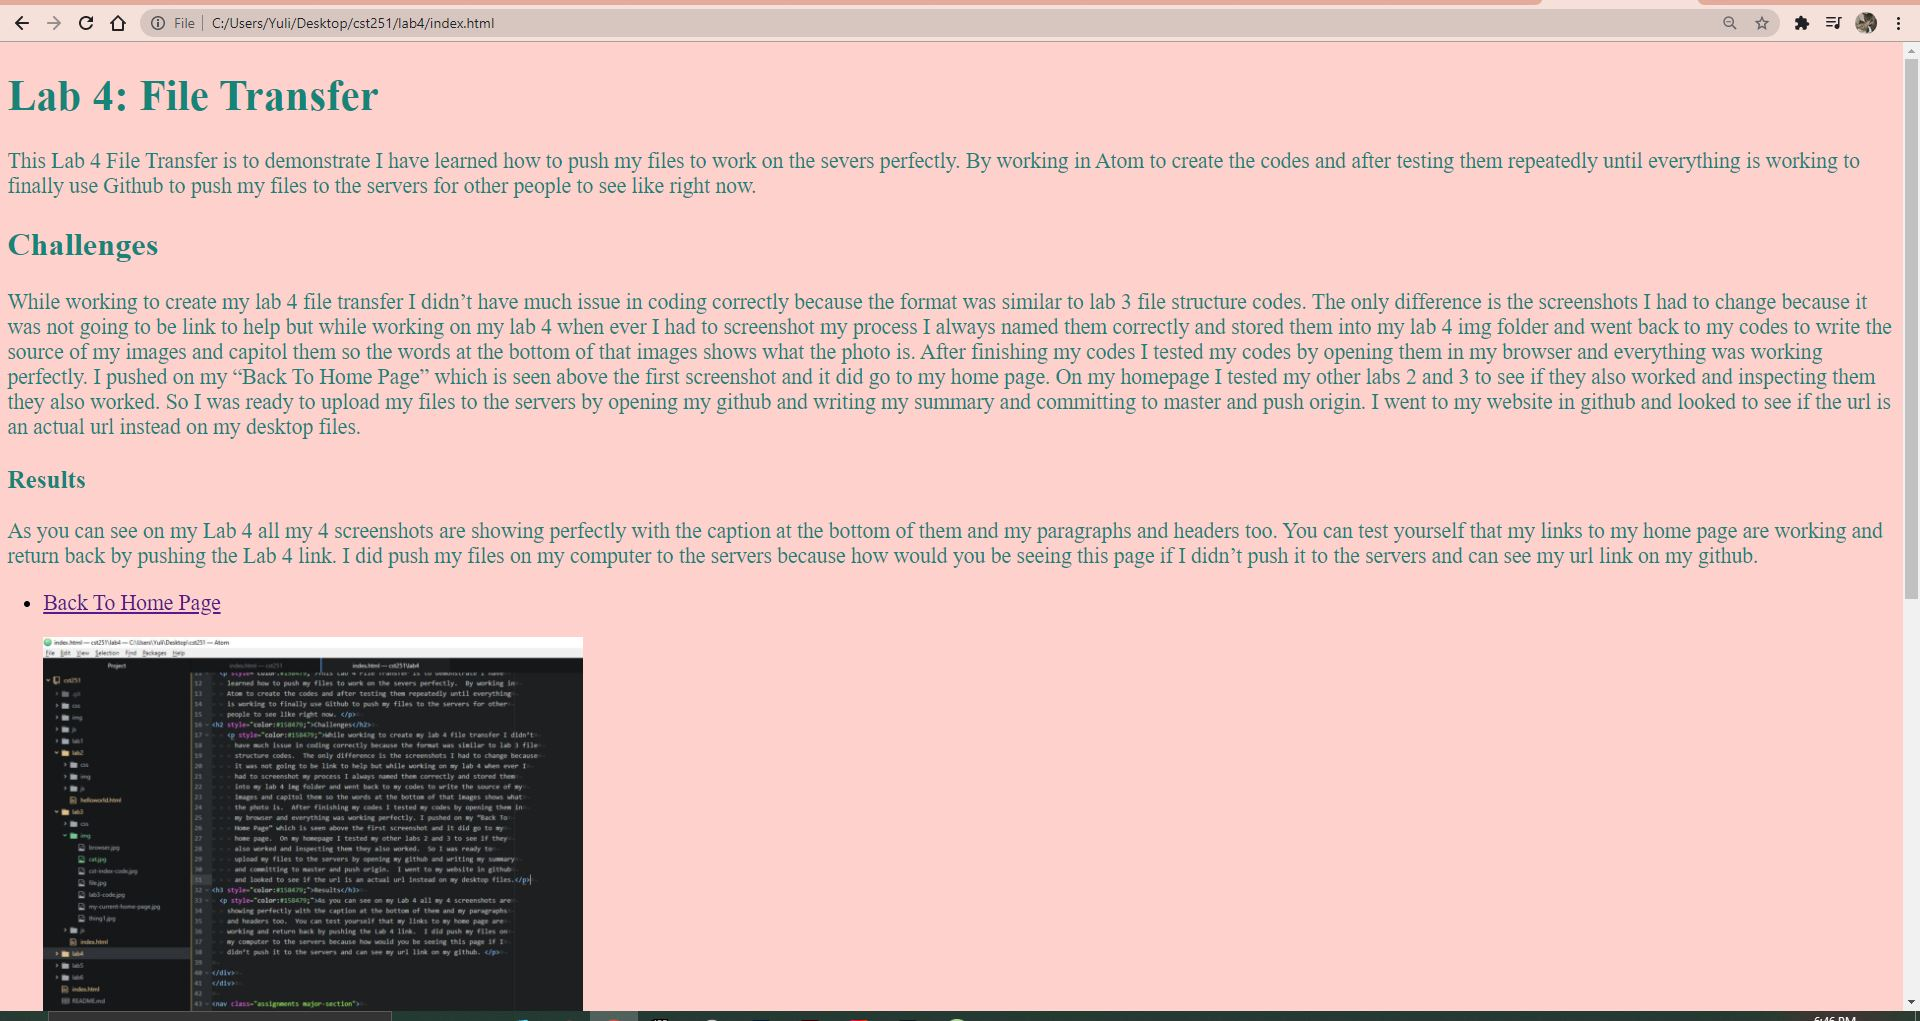
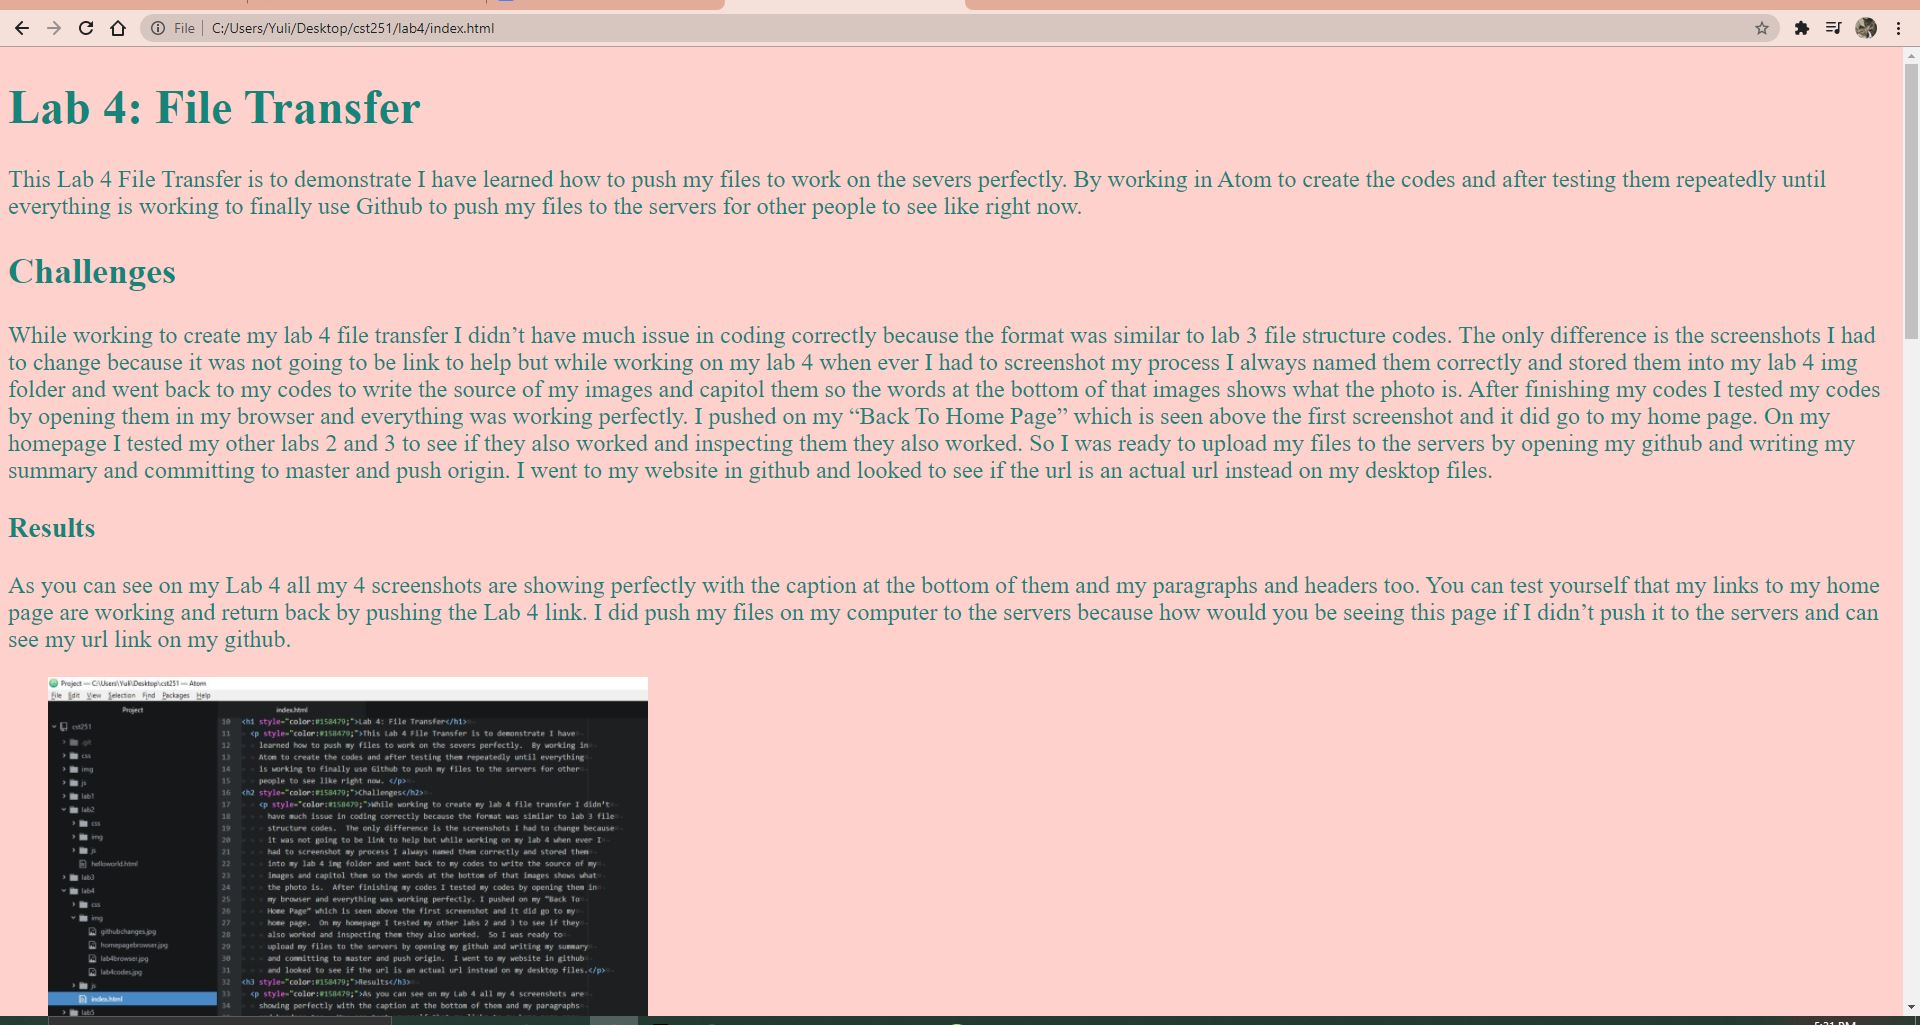
Worked on Lab 5 codes
Worked on lab 5 codes and some minor changes to other lab file codes.

Changed region(s): [[0.0, 0.1518, 1.0, 1.0], [0.0, 0.0, 1.0, 0.1214]]

diff --git a/lab5/index.html b/lab5/index.html
@@ -1,11 +1,133 @@
 <!DOCTYPE html>
 <html>
 <head>
-	<title>Lab X - Subject/Topic</title>
+	<style>
+	<title>Lab 5: More HTML</title>
 	<link rel="stylesheet" type="text/css" href="../css/site.css">
 	<link rel="stylesheet" type="text/css" href="css/lab.css">
+	* {
+	  box-sizing: border-box;
+	}
+
+	.row {
+	  display: flex;
+	}
+	.column {
+	  flex: 33.33%;
+	  padding: 5px;
+	}
+
+	figure {
+  border: 1px #c88937 solid;
+  padding: 4px;
+  margin: auto;
+}
+
+figcaption {
+  background-color: #c88937;
+  color: #c88937;
+  font-style: italic;
+  padding: 2px;
+  text-align: center;
+}
+	</style>
 </head>
-<body>
+<body style="background-color:#fae8d6">
+
+<h1 style="color:#c88937;">Lab 5: More HTML</h1>
+	<p style="color:#c88937;">This Lab 5 More HTML file is to demonstrate more html
+		codes by adding more pictures and organizing them with captions, adding links
+		to some of my favorite websites and shows on Youtube, create an image link
+		to take you to the website, and an link to go back to my homepage.  Finally to upload
+		them to the servers using Github after testing my files are working on my local
+		computer.</p>
+
+<h2 style="color:#c88937;">Challenges</h2>
+		<p style="color:#c88937;">While working on my Lab 5 file I didn’t have much issue writing
+			the codes for the headers,paragraphs, inserting my images, or adding links to
+			my favorite websites.  The only issue I had while working on my lab 5 was
+			trying to organize my images to be side by side since I wanted to put more
+			cat pictures because it was hard to choose only two so I added six.  I went
+			to w3schools for help to see how to put them side by side. I added my picture
+			using row and column to put 3 pictures on the top and the other 3 at the bottom
+			to make the images bigger instead of having all six in one row.  At the top of
+			the I added a style under head and copied and pasted the codes from w3schools
+			and adjusted some of the codes like the color of the box color to match my
+			color palette and to have my captions at the bottom to be aligned in the center.
+			I did a local test and everything was working the 6 cat pictures were showing,
+			the captions were in the center and the box was in the correct color.</p>
+
+<h3 style="color:#c88937;">Results</h3>
+	<p style="color:#c88937;">As you can see in my Lab 5 file you can see my 6 cat
+		pictures are working organized and with captions in the center at the bottom
+		of each picture.  I have all my paragraphs explaining each section and I have
+		working links to my favorite websites I enjoy most using in my free time.  I
+		have my “Back To Home Page” link at the bottom working to take you back to my
+		home page and uploaded to the severs.</p>
+
+<h2 style="color:#c88937;">My Adorable Cat Pictures</h2>
+
+	<div class="row">
+		<div class="column">
+			<figure>
+				<img src="img/kittens.jpg" alt="two kittens" style="width:100%">
+					<figcaption style="color:#fae8d6;">Kittens</figcaption>
+		</div>
+		<div class="column">
+				<img src="img/orange.jpg" alt="Picture of Orange Tabby Cat" style="width:100%">
+					<figcaption style="color:#fae8d6;">Orange Kitten</figcaption>
+		</div>
+		<div class="column">
+				<img src="img/cattree.jpg" alt="Cats on a Cat Tree" style="width:100%">
+					<figcaption style="color:#fae8d6;"> Kittens On Cat Tree</figcaption>
+			</figure>
+		</div>
+	</div>
+
+	<div class="row">
+		<div class="column">
+			<figure>
+					<img src="img/Cats.jpg" alt="Two Cats" style="width:100%">
+						<figcaption style="color:#fae8d6;">Chi & Black Kitten</figcaption>
+		</div>
+		<div class="column">
+					<img src="img/chi.jpg" alt="Chi Sleeping" style="width:100%">
+						<figcaption style="color:#fae8d6;">Chi Sleeping</figcation>
+		</div>
+		<div class="column">
+					<img src="img/kirby.jpg" alt="Kirby Playing" style="width:100%">
+						<figcaption style="color:#fae8d6;">Kirby Playing With String</figcaption>
+			</figure>
+		</div>
+	</div>
+<h4 style="color:#c88937;">Some Of My Favorite Websites & Shows on Youtube</h4>
+<nav>
+	<ol>
+		<figure>
+			<li><a href="https://youtu.be/dop4MTlf_zc?t=1" target="_blank"> <img src="img/64px.png"
+				 style="width:450px"> <br> Bee & Puppycat Season 1 On Youtube</a></li>
+			<li><a href="https://youtu.be/yio2JNgQKBM" target="_blank"> Epithet Erased</a></li>
+			<li><a href="https://www.youtube.com/" target="_blank">Youtube</a></li>
+			<li><a href="https://www.crunchyroll.com/videos/anime">Crunchyroll</a></li>
+			<li><a href="https://www.webtoons.com/en/" target="_Webtoons">Webtoons</a></li>
+			<li><a href="https://www.pinterest.com/" target="_blank">Pinterest</a></li>
+			<li><a href="https://www.twitch.tv/" target-"_blank">Twitch</a></li>
+		</figure>
+	</ol>
+</nav>
+<h5 style="color:#c88937;">My Screenshots Progress</h5>
+	<img src="img/lab5codes.jpg" style="width:700px">
+		<figcaption style="color:#fae8d6;">Lab 5 Codes</figcaption>
+	<img src="img/lab5browser.jpg" style="width:1200px">
+		<figcaption style="color:#fae8d6;">Lab 5 On Local Browser</figcaption>
+	<img src="img/severbrowser.jpg" style="width:100%">
+		<figcaption style="color:#fae8d6;">Lab 5 On Sever Browser</figcaption>
+
+	<nav class="assignments major-section">
+		<ul>
+			<li><a href="../index.html">Back To Home Page</a></li>
+		</ul>
+	</nav>
 
 </body>
 </html>

diff --git a/lab6/index.html b/lab6/index.html
@@ -1,11 +1,40 @@
 <!DOCTYPE html>
 <html>
 <head>
-	<title>Lab X - Subject/Topic</title>
+	<title>Lab 6: Links</title>
 	<link rel="stylesheet" type="text/css" href="../css/site.css">
 	<link rel="stylesheet" type="text/css" href="css/lab.css">
 </head>
-<body>
+<body style="background-color:#ffffcc">
 
+<h1 style="color:#7e4720;">Lab 6: Links</h1>
+	<p style="color:#7e4720;">. . . . . . . . </p>
+<h2 style="color:#7e4720;">Challenges</h2>
+		<p style="color:#7e4720;">. . . . . . . . . </p>
+<h3 style="color:#7e4720;">Results</h3>
+	<p style="color:#7e4720;">. . . . . .. . . . . . .</p>
+
+</div>
+</div>
+
+	<nav class="assignments major-section">
+		<ul>
+		<li><a href="../index.html">Back To Home Page</a></li>
+		</ul>
+	</nav>
+
+<figure>
+
+	<img src="img/lab4codes.jpg" alt="Lab 4 Index Code" width="600">
+		<figcaption style="color:#7e4720;">Lab 4 HTML Codes Screenshot</figcaption>
+
+	<img src="img/lab4browser.jpg" alt="Lab 4 Working On Browser" width="800">
+		<figcaption style="color:#7e4720;">Lab 4 Working On Browser</figcaption>
+
+	<img src="img/githubchanges.jpg" alt="Changes On Github" width="600">
+		<figcaption style="color:#7e4720;">Changes Showing On Github</figcaption>
+
+	<img src="img/homepagebrowser.jpg" alt="Homepage Result in Browser" width="800">
+		<figcaption style="color:#7e4720;">Homepage Results on Browser</figcaption>
 </body>
 </html>

diff --git a/lab4/index.html b/lab4/index.html
@@ -37,30 +37,22 @@
 		my computer to the servers because how would you be seeing this page if I
 		didn’t push it to the servers and can see my url link on my github. </p>
 
-</div>
-</div>
-
-	<nav class="assignments major-section">
-		<ul>
-		<li><a href="../index.html">Back To Home Page</a></li>
-		</ul>
-	</nav>
-
 <figure>
-
 	<img src="img/lab4codes.jpg" alt="Lab 4 Index Code" width="600">
 		<figcaption style="color:#158479;">Lab 4 HTML Codes Screenshot</figcaption>
-
-	<img src="img/lab4browser.jpg" alt="Lab 4 Working On Browser" width="800">
+	<img src="img/lab4browser.jpg" alt="Lab 4 Working On Browser" width="1000">
 		<figcaption style="color:#158479;">Lab 4 Working On Browser</figcaption>
-
 	<img src="img/githubchanges.jpg" alt="Changes On Github" width="600">
 		<figcaption style="color:#158479;">Changes Showing On Github</figcaption>
-
-	<img src="img/homepagebrowser.jpg" alt="Homepage Result in Browser" width="800">
+	<img src="img/homepagebrowser.jpg" alt="Homepage Result in Browser" width="1000">
 		<figcaption style="color:#158479;">Homepage Results on Browser</figcaption>
-
 </figure>
+
+<nav class="assignments major-section">
+	<ul>
+	<li><a href="../index.html">Back To Home Page</a></li>
+	</ul>
+</nav>
 
 </body>
 </html>

diff --git a/index.html b/index.html
@@ -32,10 +32,10 @@
 	<nav class="assignments major-section">
 		<h2 style="color:MediumVioletRed;">Labs</h2>
 		<ul>
-				<li><a href="lab2/helloworld.html">Lab 2: Your First HTML</a></li>
+				<li><a href="lab2/helloworld.html">Lab 2: My First HTML</a></li>
 				<li><a href="lab3/index.html">Lab 3: File Structure</a></li>
 				<li><a href="lab4/index.html">Lab 4: File Transfer</a></li>
-				<li><a href="lab5/index.html">Lab 5: </a></li>
+				<li><a href="lab5/index.html">Lab 5: More HTML</a></li>
 				<li><a href="lab6/index.html">Lab 6: </a></li>
 		</ul>
 	</nav>

diff --git a/lab2/index.html b/lab2/index.html
@@ -1,0 +1,11 @@
+<!DOCTYPE html>
+<html>
+<head>
+	<title>Lab X - Subject/Topic</title>
+	<link rel="stylesheet" type="text/css" href="../css/site.css">
+	<link rel="stylesheet" type="text/css" href="css/lab.css">
+</head>
+<body>
+
+</body>
+</html>
